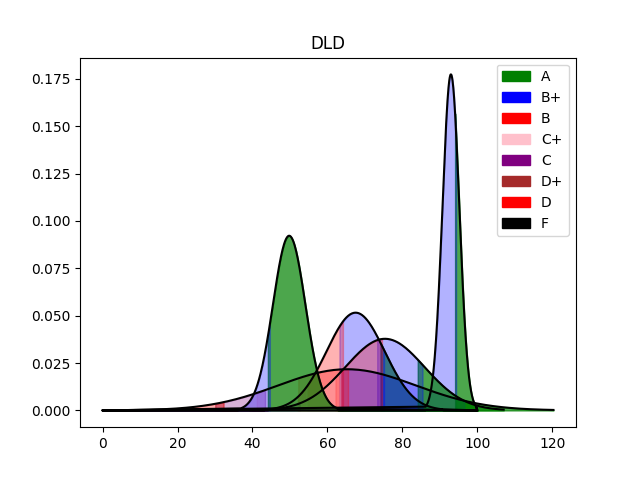
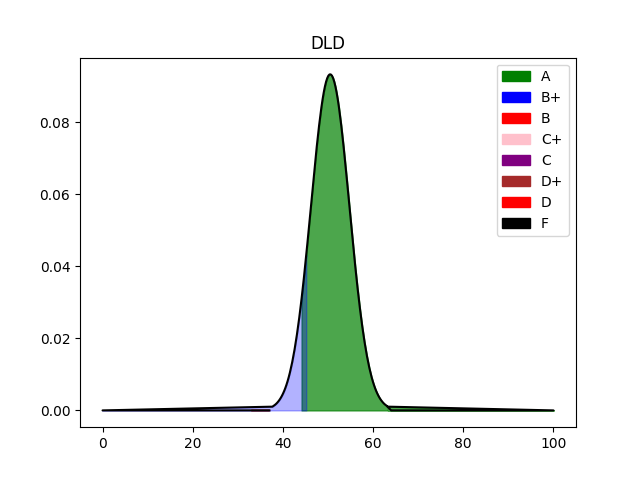
fully updated

diff --git a/GradeApp/templates/invalid.html b/GradeApp/templates/invalid.html
@@ -10,7 +10,7 @@
 <img src="{% static "GradeApp/img/invalid.png" %}" style="height:600px; padding: 0; horiz-align: center">
 </div>
 <div style="text-align: center">
-<button onclick="location.href = '../polls/'" type="button" autofocus style="height: 25px; width: 600px; horiz-align: center">Try Again</button>
+<button onclick="location.href = '../'" type="button" autofocus style="height: 25px; width: 600px; horiz-align: center">Try Again</button>
 </div>
 </body>
 </html>

diff --git a/GradeApp/predictions.py b/GradeApp/predictions.py
@@ -30,19 +30,18 @@ def make_prediction(score, ch, data):
         1 if score < x < mean else 0 for x in data).count(1)
     SB /= len(data)
     res = get_predict(np.array([[score, ch, mean, SB,
-                                   score ** 2, score * ch, score * mean, score * SB,
-                                   ch ** 2, ch * mean, ch * SB,
-                                   mean ** 2, mean * SB,
-                                   SB ** 2]]))[0]
+                                 score ** 2, score * ch, score * mean, score * SB,
+                                 ch ** 2, ch * mean, ch * SB,
+                                 mean ** 2, mean * SB,
+                                 SB ** 2]]))[0]
 
     grade = np.where(res == np.max(res))[0][0]
     return grade_map[str(grade)]
 
 
-make_prediction(72, 3, np.array([12, 56, 78, 77, 65]))
-
-
 def decide_boundary(ch, label, i_name, data):
+    plt.clf()
+    plt.cla()
     if not data.size:
         return
     mean = data.mean()
@@ -58,7 +57,7 @@ def decide_boundary(ch, label, i_name, data):
                 1 if score < x < mean else 0 for x in data).count(1)
             SB /= len(data)
             res = get_predict(np.array([[score, ch, mean, SB, score ** 2, score * ch, score * mean, score * SB,
-                                           ch ** 2, ch * mean, ch * SB, mean ** 2, mean * SB, SB ** 2]]))[0]
+                                         ch ** 2, ch * mean, ch * SB, mean ** 2, mean * SB, SB ** 2]]))[0]
             cur_grade = np.where(res == np.max(res))[0][0]  # gives index for grade
             score -= 10
         score += 8
@@ -68,7 +67,7 @@ def decide_boundary(ch, label, i_name, data):
                 1 if score < x < mean else 0 for x in data).count(1)
             SB /= len(data)
             res = get_predict(np.array([[score, ch, mean, SB, score ** 2, score * ch, score * mean, score * SB,
-                                           ch ** 2, ch * mean, ch * SB, mean ** 2, mean * SB, SB ** 2]]))[0]
+                                         ch ** 2, ch * mean, ch * SB, mean ** 2, mean * SB, SB ** 2]]))[0]
             cur_grade = np.where(res == np.max(res))[0][0]  # gives index for grade
             score -= 2
         score += 1.5
@@ -77,7 +76,7 @@ def decide_boundary(ch, label, i_name, data):
                 1 if score < x < mean else 0 for x in data).count(1)
             SB /= len(data)
             res = get_predict(np.array([[score, ch, mean, SB, score ** 2, score * ch, score * mean, score * SB,
-                                           ch ** 2, ch * mean, ch * SB, mean ** 2, mean * SB, SB ** 2]]))[0]
+                                         ch ** 2, ch * mean, ch * SB, mean ** 2, mean * SB, SB ** 2]]))[0]
             cur_grade = np.where(res == np.max(res))[0][0]  # gives index for grade
             score -= 0.5
         boundaries.insert(0, score)
@@ -89,7 +88,7 @@ def decide_boundary(ch, label, i_name, data):
     for i in range(8 - len(boundaries)):
         boundaries.insert(0, 0)
     # Plot the new curve and save it
-    x = np.linspace(mean - 3*std_deviation, mean + 3*std_deviation, 100)
+    x = np.linspace(mean - 3 * std_deviation, mean + 3 * std_deviation, 100)
     # if std_deviation:
     y = stats.norm.pdf(x, mean, std_deviation)
 

diff --git a/GradeApp/views.py b/GradeApp/views.py
@@ -115,6 +115,7 @@ def add_new_record(input_data):
                                                          password=input_data["password"])
 
     # Create New Images
+    #
     predictions.decide_boundary(2, "Islamic Studies", "ABC/isl.png", np.array([
         *models.GradesA.objects.values_list('istd'),
         *models.GradesB.objects.values_list('istd'),
